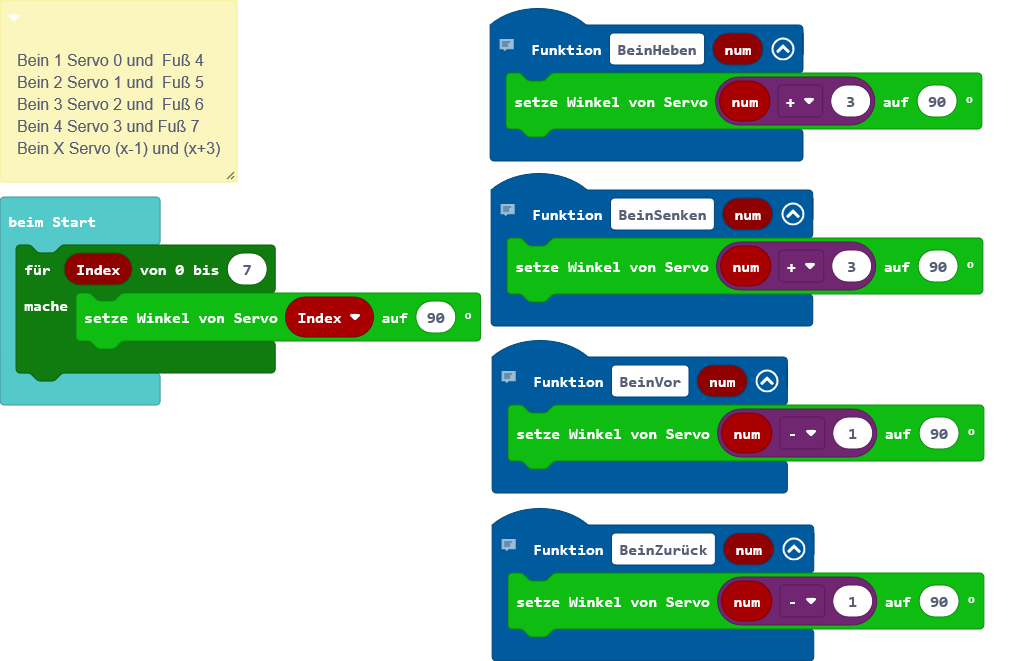
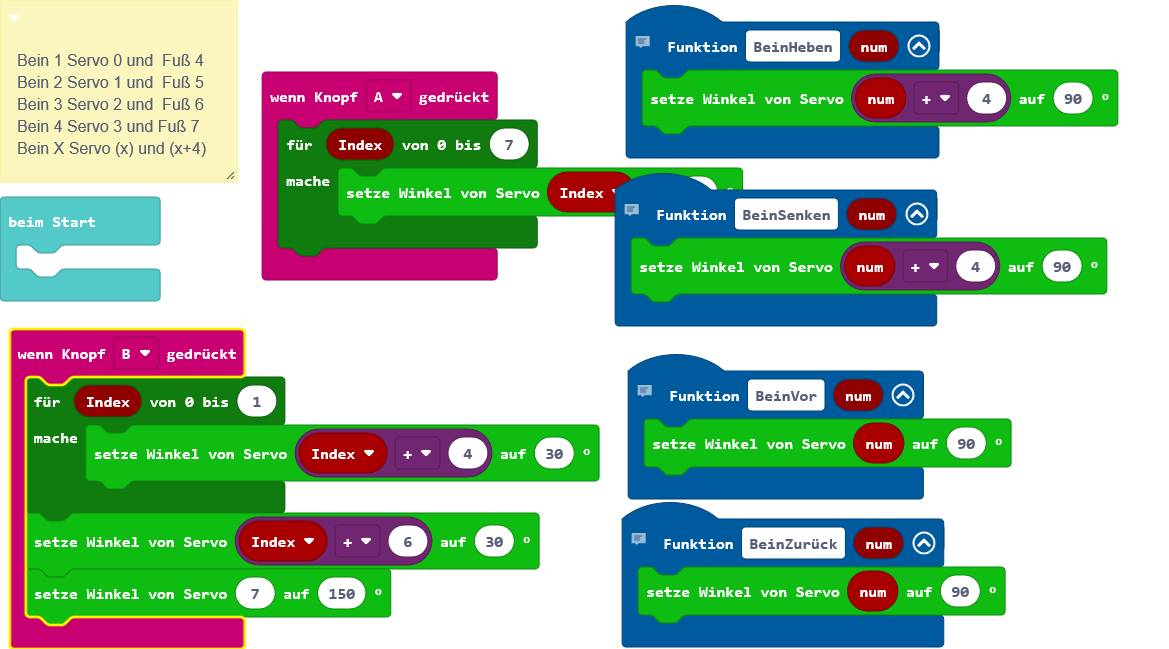
Aktualisiere main.blocks, main.ts

diff --git a/main.ts b/main.ts
@@ -4,7 +4,7 @@
 // Bein 4 Servo 3 und 7
 // Bein X Servo (x-1) und (x+3)
 function BeinSenken (num: number) {
-    Servo.Servonum(num + 3, 90)
+    Servo.Servonum(num + 4, 90)
 }
 // Bein 1 Servo 0 und 4
 // Bein 2 Servo 1 und 5
@@ -12,15 +12,28 @@ function BeinSenken (num: number) {
 // Bein 4 Servo 3 und 7
 // Bein X Servo (x-1) und (x+3)
 function BeinHeben (num: number) {
-    Servo.Servonum(num + 3, 90)
+    Servo.Servonum(num + 4, 90)
 }
+input.onButtonPressed(Button.A, function () {
+    for (let Index = 0; Index <= 7; Index++) {
+        Servo.Servonum(Index, 90)
+    }
+})
+input.onButtonPressed(Button.B, function () {
+    let Index = 0
+    for (let Index = 0; Index <= 1; Index++) {
+        Servo.Servonum(Index + 4, 30)
+    }
+    Servo.Servonum(Index + 6, 30)
+    Servo.Servonum(7, 150)
+})
 // Bein 1 Servo 0 und 4
 // Bein 2 Servo 1 und 5
 // Bein 3 Servo 2 und 6
 // Bein 4 Servo 3 und 7
 // Bein X Servo (x-1) und (x+3)
 function BeinZurück (num: number) {
-    Servo.Servonum(num - 1, 90)
+    Servo.Servonum(num, 90)
 }
 // Bein 1 Servo 0 und 4
 // Bein 2 Servo 1 und 5
@@ -28,7 +41,7 @@ function BeinZurück (num: number) {
 // Bein 4 Servo 3 und 7
 // Bein X Servo (x-1) und (x+3)
 function BeinVor (num: number) {
-    Servo.Servonum(num - 1, 90)
+    Servo.Servonum(num, 90)
 }
 /**
  * Bein 1 Servo 0 und  Fuß 4
@@ -39,8 +52,5 @@ function BeinVor (num: number) {
  * 
  * Bein 4 Servo 3 und Fuß 7
  * 
- * Bein X Servo (x-1) und (x+3)
+ * Bein X Servo (x) und (x+4)
  */
-for (let Index = 0; Index <= 7; Index++) {
-    Servo.Servonum(Index, 90)
-}
